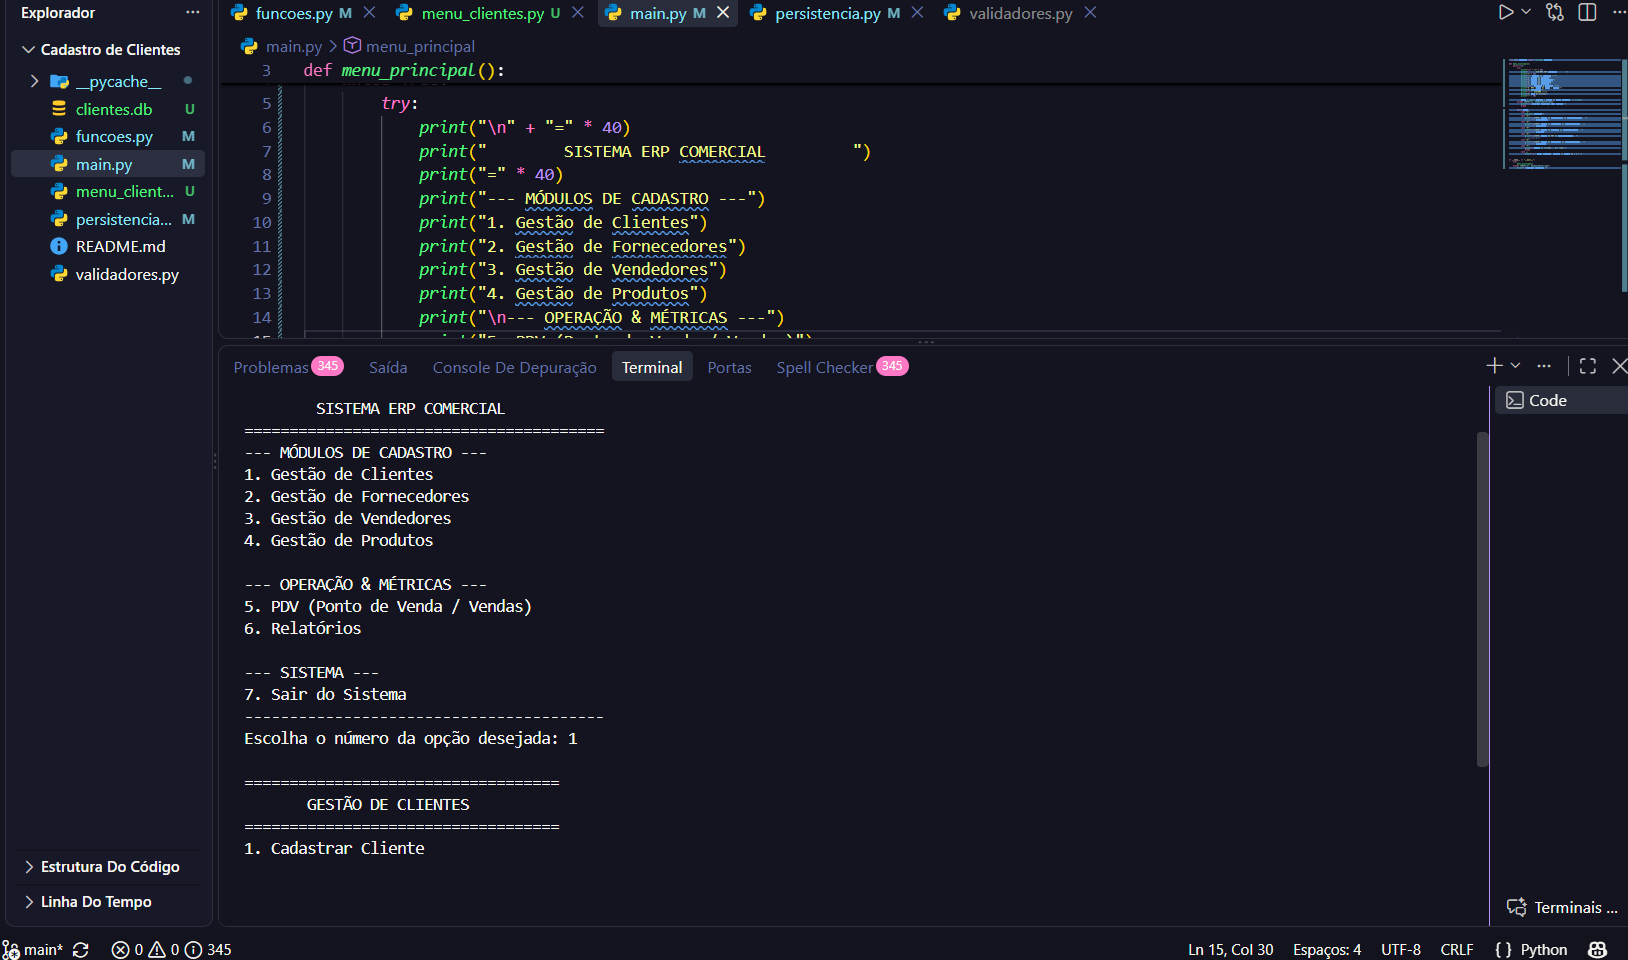
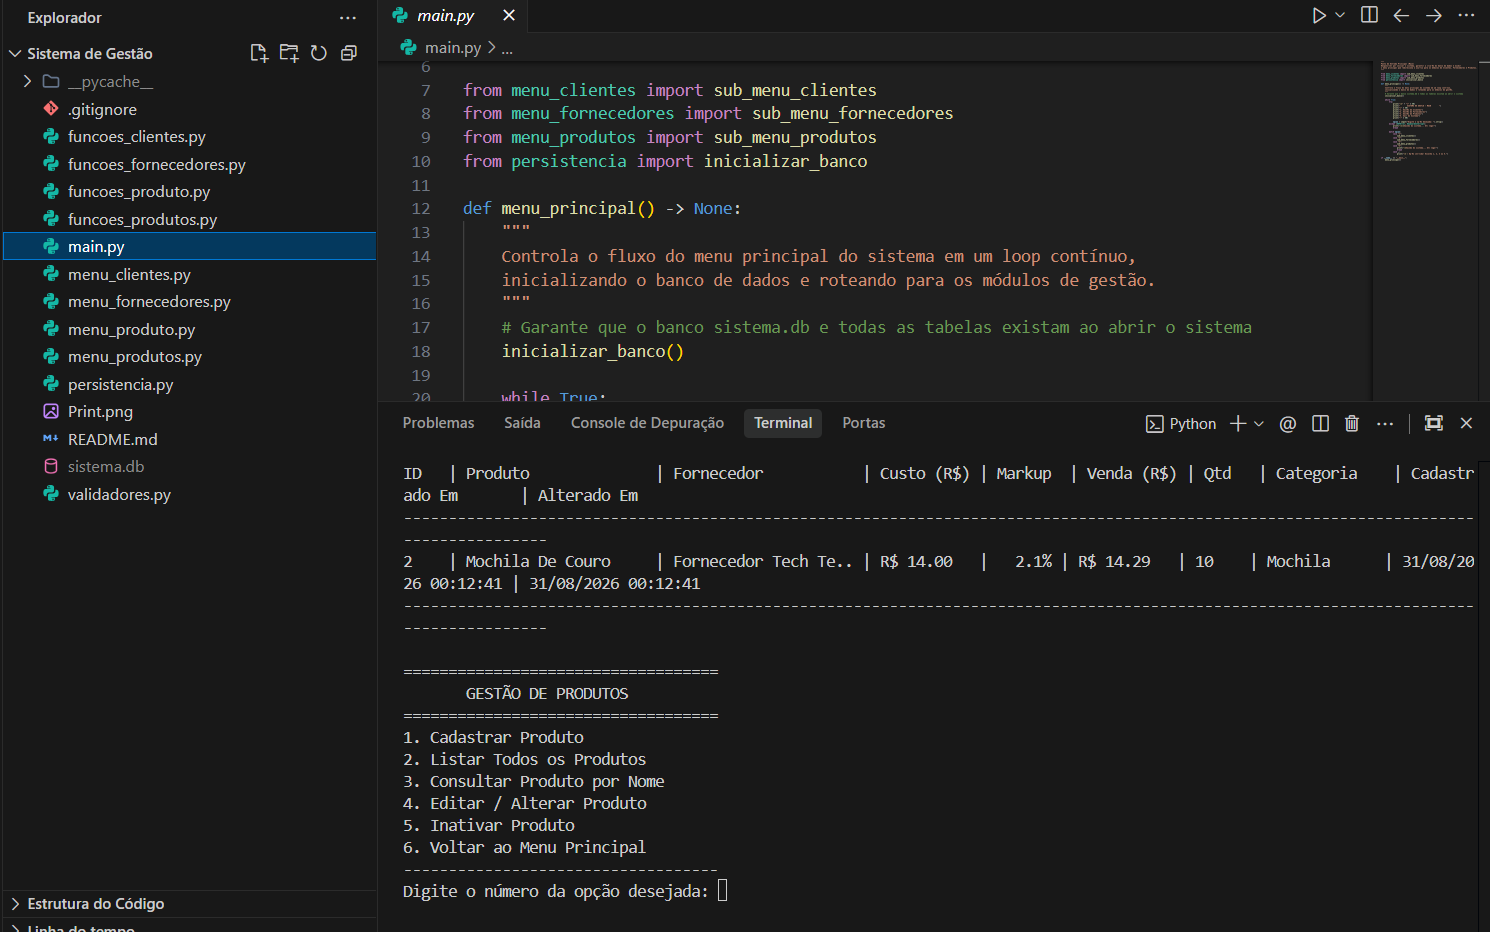
docs: adiciona screenshot Print.png ao README.md

diff --git a/README.md b/README.md
@@ -4,6 +4,12 @@ Sistema de cadastro e gestão comercial desenvolvido em Python com persistência
 
 ---
 
+## 📸 Demonstração do Sistema
+
+![Demonstração do Sistema](Print.png)
+
+---
+
 ## 🛠 Tecnologias Utilizadas
 
 - **Linguagem:** Python 3.x
